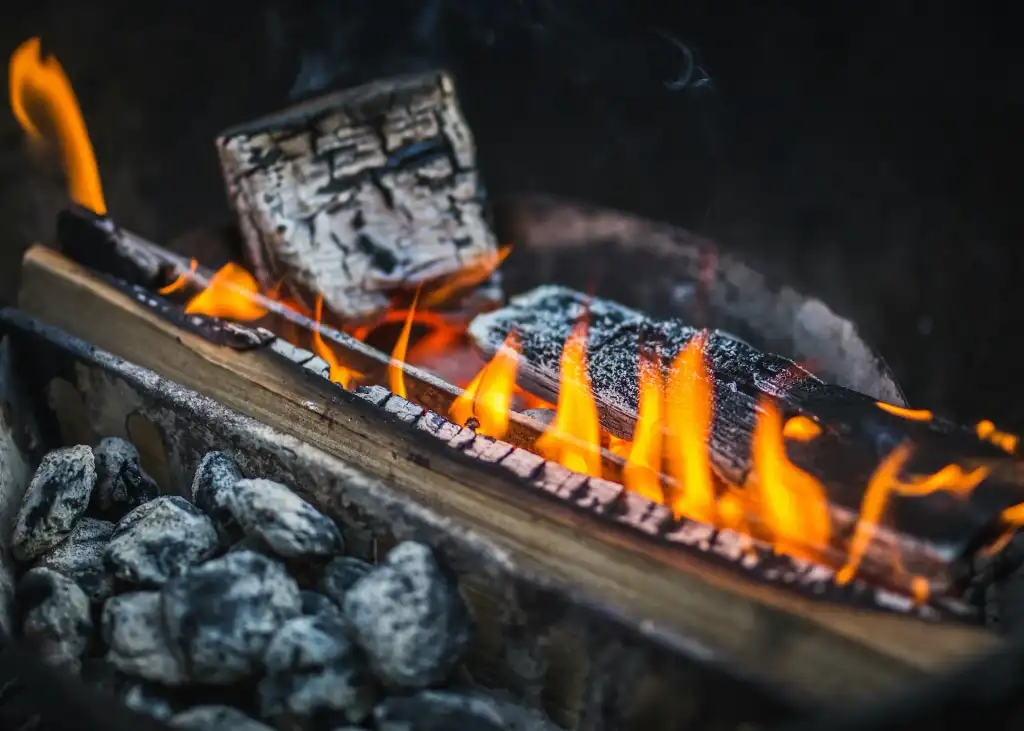
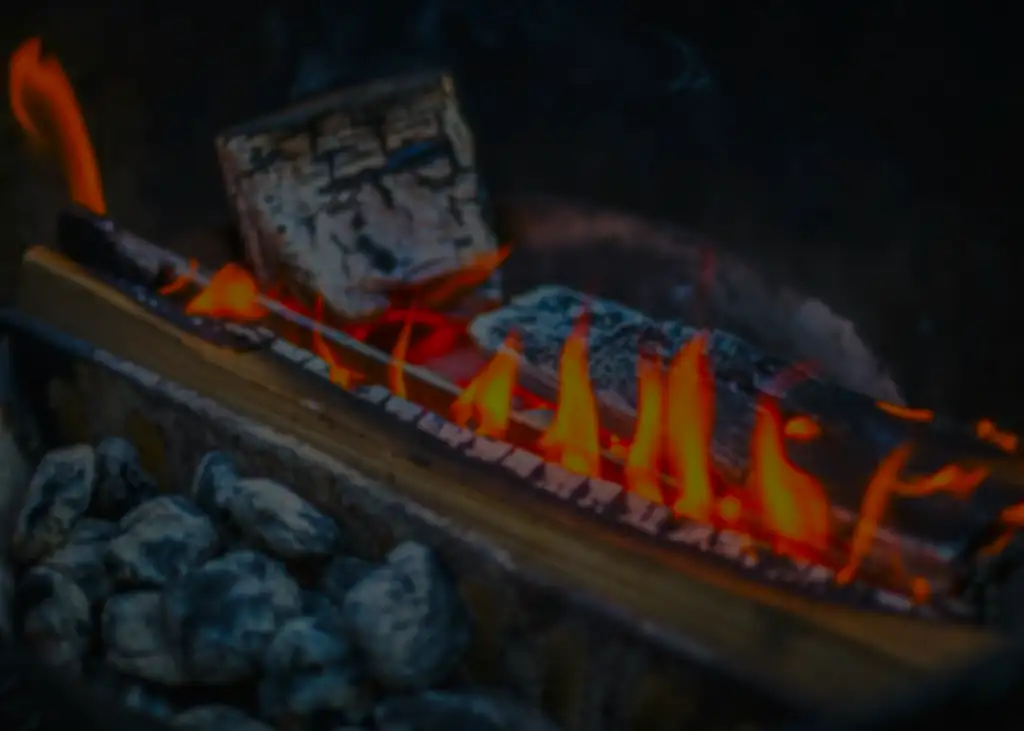
perf: bake the hero blur into the image and drop backdrop blurs
- The hero photo ships already blurred and darkened (mobile 9 KB); applying blur/brightness
  with CSS cost ~1.5 s of main-thread rendering on mid-range phones
- No backdrop-filter on the header, search box and category pills (no visual gain over an
  already blurred photo)
- Route loading placeholder takes the full screen height, so the footer no longer jumps when
  the catalog appears
- Footer copyright text with enough contrast

diff --git a/src/components/hero.jsx b/src/components/hero.jsx
@@ -58,7 +58,7 @@ function SearchHero({ categories }) {
           value={query}
           onChange={(event) => setQuery(event.target.value)}
           placeholder="¿Qué estás buscando?"
-          className="w-full h-14 rounded-full bg-stone-950/75 backdrop-blur border border-stone-700 pl-12 pr-16 text-lg text-white placeholder-stone-400 focus:outline-none focus:border-orange-500 [&::-webkit-search-cancel-button]:hidden"
+          className="w-full h-14 rounded-full bg-stone-950/80 border border-stone-700 pl-12 pr-16 text-lg text-white placeholder-stone-400 focus:outline-none focus:border-orange-500 [&::-webkit-search-cancel-button]:hidden"
         />
         <button
           type="submit"
@@ -76,7 +76,7 @@ function SearchHero({ categories }) {
           <Link
             key={name}
             to={categoryLink(name)}
-            className="px-4 py-2 rounded-full bg-stone-950/70 backdrop-blur-sm border border-white/15 text-sm md:text-[15px] font-medium text-stone-100 hover:text-white hover:bg-stone-900/90 hover:border-white/30 transition-colors"
+            className="px-4 py-2 rounded-full bg-stone-950/75 border border-white/15 text-sm md:text-[15px] font-medium text-stone-100 hover:text-white hover:bg-stone-900/90 hover:border-white/30 transition-colors"
           >
             {name}
           </Link>
@@ -84,7 +84,7 @@ function SearchHero({ categories }) {
         {categories.length > 0 && (
           <Link
             to="/productos"
-            className="px-4 py-2 rounded-full bg-stone-950/70 backdrop-blur-sm border border-orange-500/60 text-sm md:text-[15px] font-medium text-orange-300 hover:text-orange-200 hover:border-orange-400 transition-colors"
+            className="px-4 py-2 rounded-full bg-stone-950/75 border border-orange-500/60 text-sm md:text-[15px] font-medium text-orange-300 hover:text-orange-200 hover:border-orange-400 transition-colors"
           >
             Ver todo
           </Link>
@@ -101,7 +101,8 @@ function Hero() {
   return (
     <div className="w-full flex flex-col">
       <section className="relative w-full h-[78dvh] min-h-[32rem] max-h-[48rem] flex items-center justify-center overflow-hidden">
-        {/* Tres tamaños (public/images): el celular baja el chico. La misma lista se precarga en index.html */}
+        {/* Tres tamaños (public/images): el celular baja el chico. La misma lista se precarga en index.html.
+            La foto ya viene desenfocada y oscurecida: aplicar blur/brightness con CSS es muy caro en celulares */}
         <img
           src="/images/hero-1024.webp"
           srcSet="/images/hero-640.webp 640w, /images/hero-1024.webp 1024w, /images/hero-1600.webp 1600w"
@@ -110,7 +111,7 @@ function Hero() {
           height="1142"
           alt=""
           fetchPriority="high"
-          className="absolute inset-0 w-full h-full object-cover brightness-45 blur-[3px]"
+          className="absolute inset-0 w-full h-full object-cover"
         />
         <SearchHero categories={categories} />
       </section>

diff --git a/src/components/header.jsx b/src/components/header.jsx
@@ -44,7 +44,7 @@ function Header() {
   const openNow = open && isOpenNow();
 
   return (
-    <header className="bg-stone-950/95 backdrop-blur border-b border-stone-800 fixed w-full top-0 z-50">
+    <header className="bg-stone-950 border-b border-stone-800 fixed w-full top-0 z-50">
       <div className="relative z-10 max-w-[1920px] mx-auto px-4 md:px-8 h-24 flex justify-between items-center">
         <div className="flex-shrink-0 cursor-pointer">
           <Link to="/">

diff --git a/src/App.jsx b/src/App.jsx
@@ -23,7 +23,7 @@ function StoreLayout() {
     <div className="pt-24 min-h-screen flex flex-col justify-between overflow-x-hidden bg-stone-950">
       <Header />
       <main className="flex">
-        <Suspense fallback={<div className="w-full min-h-[60vh] bg-stone-950" />}>
+        <Suspense fallback={<div className="w-full min-h-dvh bg-stone-950" />}>
           <Outlet />
         </Suspense>
       </main>

diff --git a/src/components/footer.jsx b/src/components/footer.jsx
@@ -63,7 +63,7 @@ function Footer() {
         </div>
       </div>
 
-      <p className="border-t border-stone-900 py-4 text-center text-xs text-stone-600">
+      <p className="border-t border-stone-900 py-4 text-center text-xs text-stone-400">
         © {new Date().getFullYear()} Los Molinos Regionales
       </p>
     </footer>
